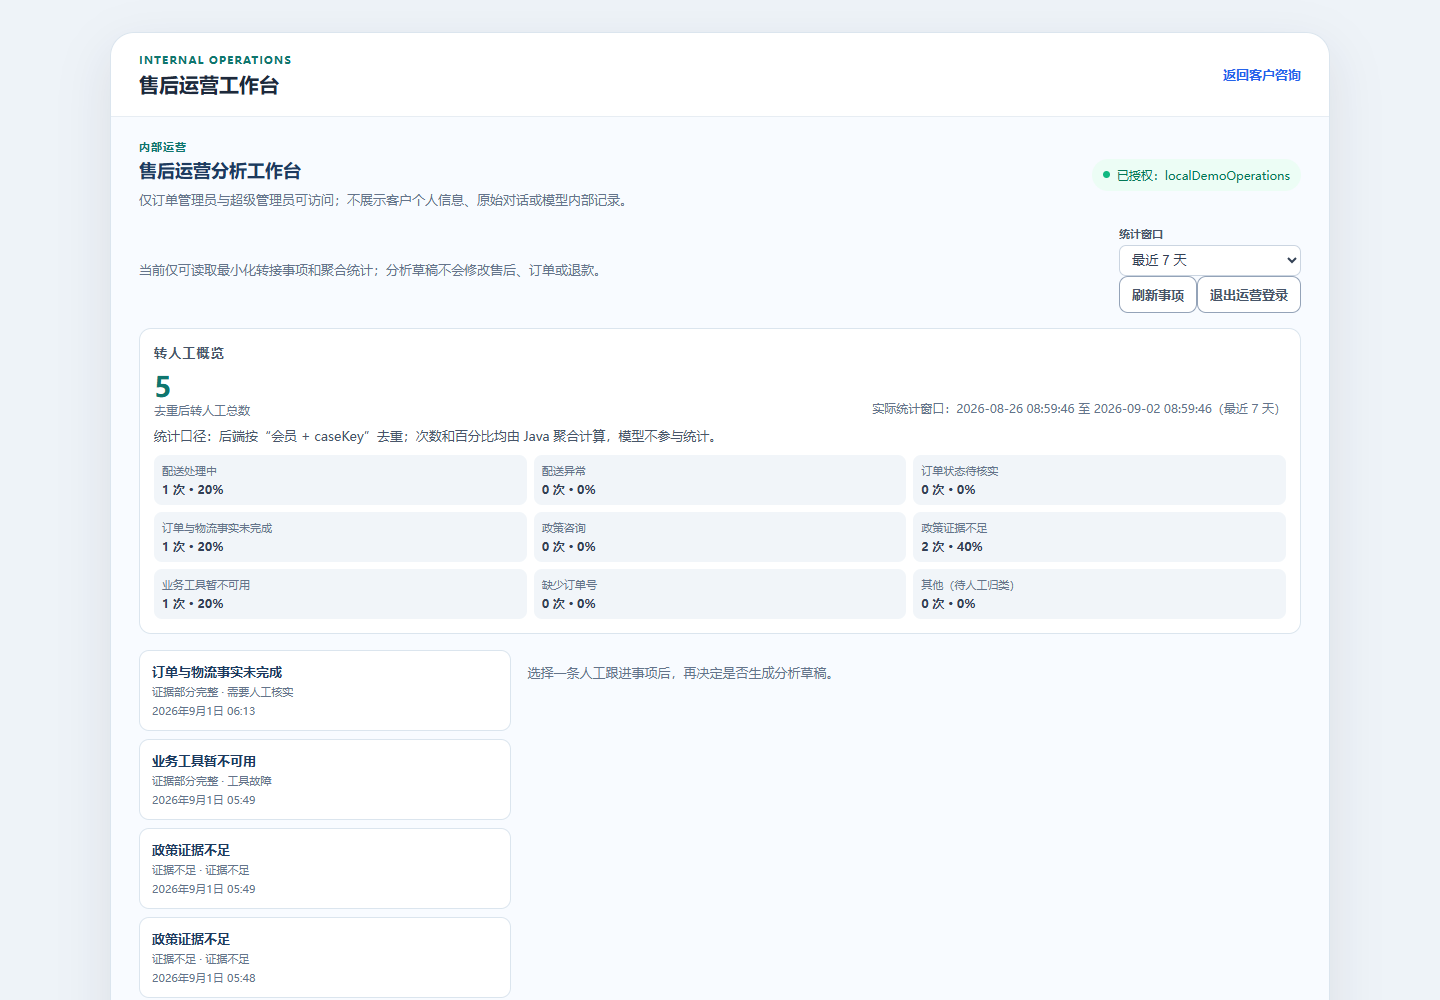
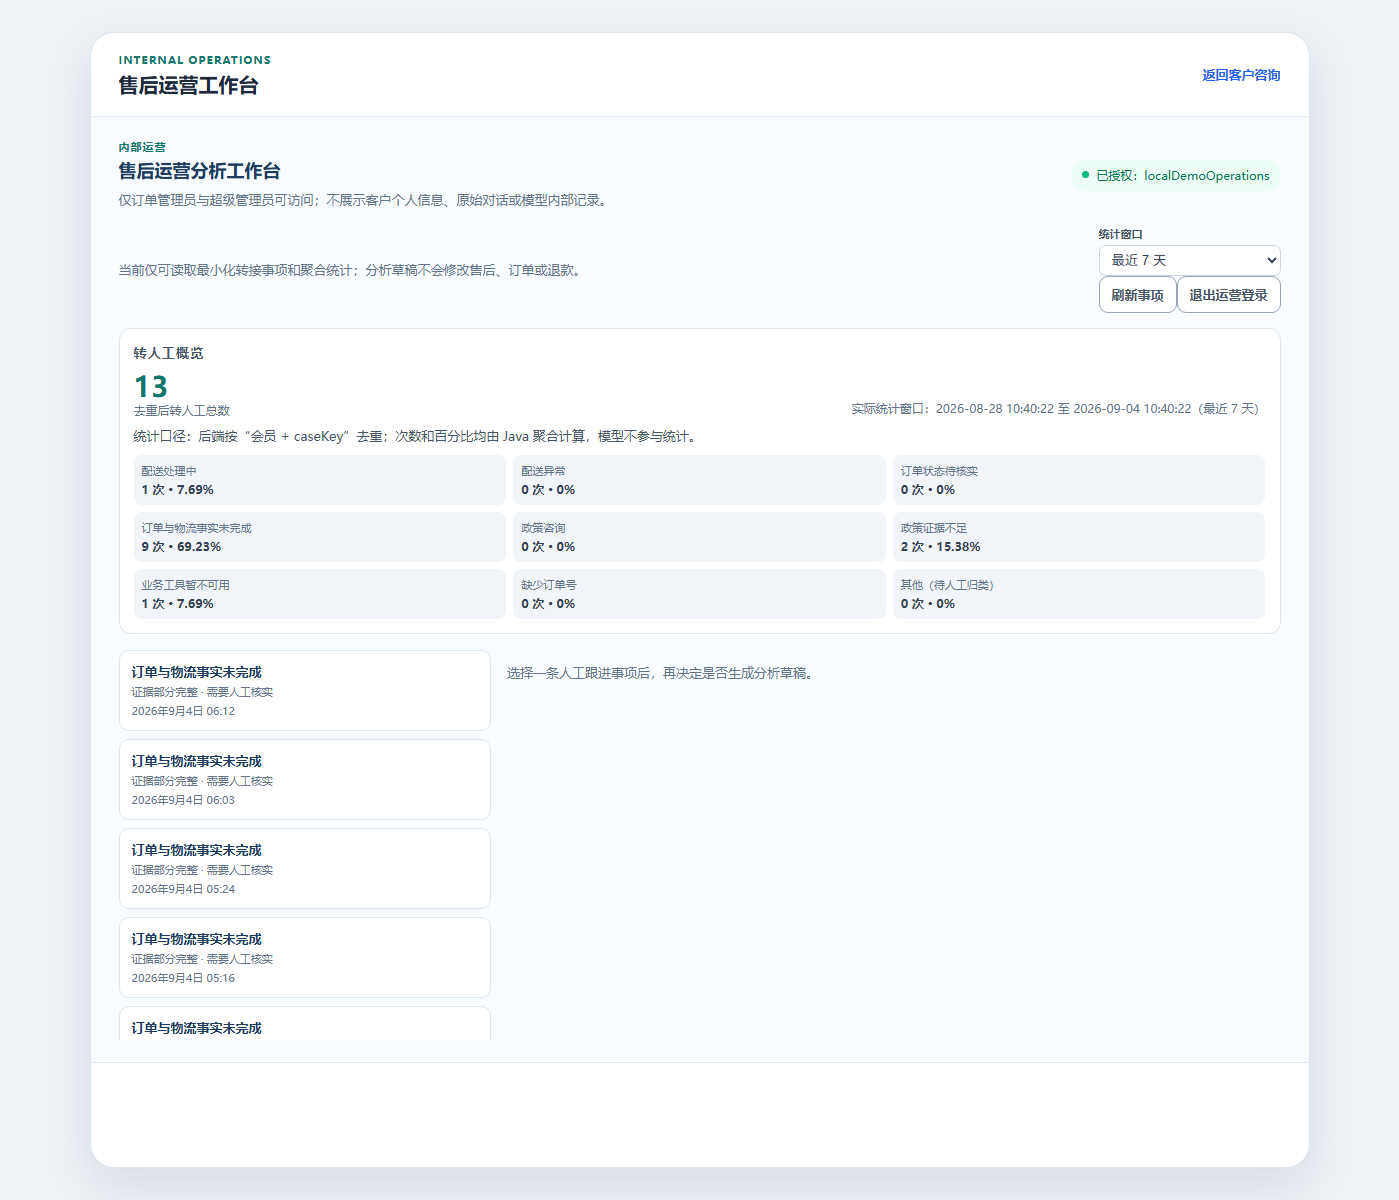
docs: refresh live demo screenshots and evaluation evidence

diff --git a/mall-ai-web/src/App.vue b/mall-ai-web/src/App.vue
@@ -1082,7 +1082,7 @@ async function scrollToLatest(): Promise<void> {
           <div class="composer-area">
             <div class="quick-prompts" aria-label="快捷问题"><button v-for="prompt in quickPrompts" :key="prompt" type="button" :disabled="isSending || isCreatingConversation" @click="sendMessage(prompt)">{{ prompt }}</button></div>
             <form class="composer" @submit.prevent="sendMessage()">
-              <textarea v-model="messageInput" :disabled="isSending || isCreatingConversation" rows="2" placeholder="例如：订单号 202607240001 的耳机损坏了，想申请退货" @keydown.enter.exact.prevent="sendMessage()"></textarea>
+              <textarea v-model="messageInput" :disabled="isSending || isCreatingConversation" rows="2" placeholder="例如：某笔订单的耳机损坏了，想申请退货" @keydown.enter.exact.prevent="sendMessage()"></textarea>
               <button class="send-button" type="submit" :disabled="isSending || isCreatingConversation || !messageInput.trim()">{{ isSending ? "处理中" : "发送" }}</button>
             </form>
             <p class="composer-note">Enter 发送；Shift + Enter 换行。涉及写操作时，系统会先要求明确确认。</p>

diff --git a/PROGRESS.md b/PROGRESS.md
@@ -1,0 +1,110 @@
+# 当前工作进度记录
+
+更新时间：2026-09-04（Asia/Shanghai）
+仓库：`C:\\Users\\12969\\Desktop\\mall`
+分支：`main`
+开始本轮时 HEAD：`8891d4c3fc5116aed794b76daca7e45e691795db`
+远程：`https://github.com/Eleven617/mall-ai-after-sales-platform.git`
+
+> 本文件是暂停点记录。它不保存密码、Token、API Key、订单号、客户原话、原始工具载荷或完整 Trace。
+
+## 1. 已完成的工作
+
+### 本轮已完成
+
+- 已阅读并核对当前 README、公开证据文档、前端页面和截图驱动脚本的现状。
+- 将客户页面输入框中的完整数字订单号示例改为泛化示例，避免公开页面继续提示业务标识。
+- 使用真实本地 Compose 页面、真实 Chrome headless/CDP 和本地合成账号尝试更新三张公开截图。
+- 发现截图驱动脚本的运营/质量登录选择器过窄，已在临时脚本中修正；同时加入缓存禁用、独立浏览器 profile 和更严格的真实凭据/长业务编号检查。
+- 重新执行 Vue 生产构建：成功。
+- 执行 `docker compose up -d --build mall-ai-web`：成功；未执行 `docker compose down`，未删除命名卷或清空数据库。依赖服务被 Compose 正常重建/重启后恢复健康。
+- 通过直接本地 API 冒烟确认：合成客户登录、创建会话和政策消息请求均返回 HTTP 200；响应包含安全回答字段（只记录字段长度，不记录回答内容）。
+
+### 之前已经存在、但本轮没有重新测量的证据
+
+以下数字来自此前提交/证据文档，仅作为基线，不能替代本轮最终复验：
+
+- v3 manifest：`478/478`；deterministic preflight：`478/478`；代表性 Runtime：`8/8`。
+- 质量 Agent contract_mock：`17/17`。
+- 任务编排 contract_mock：`11/11`；live_model_synthetic：`10/10`，blocked `0`。
+- v3 live synthetic：`36` 个 Case × `3` 次，共 `108/108`；此前不同记录中的 p95 数值不一致，需在恢复后以实际运行日志重新核对。
+- FastAPI：`346 passed`、`7` 个参数化子断言通过。
+- Chunk/Metadata：`8/8`；RAG grounding contract：`15/15`；RAG verifier：`36` 条通过；RAG 2.0 黄金集：`52` 条，Dense/Hybrid/Hybrid+Rerank 均通过，Dense 继续默认。
+- Java portal/admin、Vue、Compose 和 Docker health 均有此前通过记录；不同历史文档对 Java 分项数量也存在口径差异，恢复后应重新执行并统一记录。
+- 旧提交已有成功的 GitHub Actions 运行链接，但它们不是本轮新截图/新代码提交的验证结果，恢复后不得直接沿用为新提交证据。
+
+## 2. 修改过的文件
+
+### 已跟踪、当前有改动
+
+- `mall-ai-web/src/App.vue`：将输入框 placeholder 中的完整订单号示例改为泛化文本。
+- `docs/assets/customer-policy-conversation.png`：截图脚本曾写入过新文件，但当前内容仍需重新确认，不能直接作为公开最终截图。
+- `docs/assets/operations-handoff-overview.png`：由真实运营页面重新截图，使用合成账号/聚合数据。
+
+### 未跟踪但被 Git 忽略的临时文件
+
+- `tmp/capture_demo_screenshots.py`：仅用于本地截图驱动，已多次调整；位于被 `.gitignore` 忽略的 `tmp/`，不应提交。
+- `tmp/capture-chrome-profile*`：Chrome 临时 profile，不应提交。
+
+### 尚未修改
+
+- `docs/assets/quality-evaluation-dashboard.png` 本轮尚未成功刷新，仍是旧截图。
+- `README.md`、`docs/TEST_AND_DEMO_EVIDENCE.md`、`docs/PUBLIC_RELEASE_RECORD.md` 和其他公开证据文档尚未针对本轮截图更新完成。
+
+## 3. 已执行的命令和结果
+
+以下命令均未输出或保存密码、Token 或密钥：
+
+| 命令/动作 | 结果 |
+| --- | --- |
+| `npm run build`（`mall-ai-web`） | 成功：`vue-tsc --noEmit` 与 Vite build 均通过 |
+| `docker compose up -d --build mall-ai-web` | 成功；Web 及依赖服务重建/重启完成，未 down、未删卷 |
+| `docker compose ps` | 八个常驻服务显示 healthy |
+| 本地截图脚本（多次） | 部分失败：客户页异步历史/消息状态等待条件未稳定；运营页截图已生成；质量页未刷新 |
+| 本地 API 冒烟（合成客户） | 登录、创建会话、发送政策问题均 HTTP 200；只检查响应结构/长度 |
+| `view_image` 检查三张资产 | 已查看；发现客户图仍可能显示旧 placeholder 中的完整数字，不能发布；运营图为合成只读概览；质量图为旧的真实质量页截图 |
+| `git status --short --branch` | 当前分支 `main`；改动为 App.vue 与两张截图；临时脚本/profile 被忽略 |
+
+## 4. 当前遇到的问题
+
+1. 客户截图脚本中，服务端请求已返回 200，但前端在登录后的会话历史异步更新与新消息渲染之间存在竞态；脚本观察到客户页只有两行消息，未稳定捕获 assistant 回答，因此等待条件超时。
+2. 客户截图当前仍能看到旧的完整数字订单号 placeholder；在重新生成并用图像检查确认前，不能提交或在 README 宣称它是安全新截图。
+3. 质量截图尚未刷新；上一次质量图虽来自真实页面，但不是本轮截图更新，且页面中的合同字段名不能被误判为真实敏感值，需用更精确的安全检查重新截取。
+4. 公开证据文档中的历史提交 SHA、远程 Actions 链接、Java 分项数量和 live-synthetic p95 有不同历史口径；恢复后必须以一组新命令和新提交统一，不得编数字或把旧链接冒充新提交结果。
+5. 本轮尚未完成公开文档同步、最终全量回归、Git commit/push 和新提交对应的远程 Actions 验证。
+
+## 5. 尚未完成的任务
+
+- 稳定生成并检查三张真实截图：客户、运营、质量；确认无完整订单号、密码、Token、客户原话、RAG 原文或生产 Trace。
+- 重新运行与本轮改动相关的测试，至少包括 Vue build、`git diff --check`、FastAPI 受影响测试；交付前按仓库规则完成 FastAPI 全量回归，并复跑 Compose config。
+- 更新 `README.md`、`docs/TEST_AND_DEMO_EVIDENCE.md`、`docs/PUBLIC_RELEASE_RECORD.md`（必要时同步 v3 证据），写清日期、命令、数据集规模、hash、deterministic/contract_mock/live_model_synthetic/浏览器现场边界。
+- 检查暂存区，确保没有 `.env`、密码、Token、模型权重、Chroma 索引、浏览器 profile、日志或其他敏感文件。
+- 创建专门的截图/测试证据 commit，建议消息：`docs: refresh live demo screenshots and evaluation evidence`。
+- 推送到 `origin main`，等待该新提交对应的 `mall-ci` 与 `quality-evaluation` 完成；只有真实 success 才能在最终报告写新 Actions 链接和“该提交 CI 通过”。
+- 若远程失败，逐项读取新日志并如实记录根因、命令和阻塞点，不能沿用旧成功链接。
+
+## 6. 下一步应该做什么
+
+1. 先修复临时截图脚本的客户页竞态：等待登录初始化结束后再发送，或打开已生成且不含业务标识的合成政策会话；必要时用 CDP 检查 DOM 状态，但不要打印页面敏感内容。
+2. 重新截三张图并逐张 `view_image` 检查；客户图若仍有数字订单号，立即判为不合格并重截，不做图像伪造或遮盖替代。
+3. 运行测试和静态检查，保存真实输出。
+4. 只更新公开文档中的真实结果与边界，不把历史数量相加、不把 mock 说成真实模型效果。
+5. 检查 Git diff/status 后提交、推送，再等待并记录新 Actions。
+
+## 7. 不能重复执行或不能删除的内容
+
+- 不执行 `git reset --hard`、`git checkout --`、`docker compose down`、`docker compose down -v`、卷删除、数据库清空或迁移回滚；必须保留现有本机演示数据和命名卷。
+- 不删除既有测试、EvalCase、工作流 job、扫描门禁或历史证据来制造绿色结果；不使用 `continue-on-error`、`|| true`、跳过测试或放宽断言。
+- 不删除或覆盖与本任务无关的用户脏改动；只保留本轮明确改动。
+- 不提交 `.env`、密码、Token、私钥、真实手机号/地址/订单号、完整客户对话、生产 trace、RAG 原文、模型权重、Chroma 索引、日志和 Chrome profile。
+- 不把旧提交的 Actions success 当作新提交 success；不在远程验证完成前添加或宣称新的绿色 CI 证据。
+- 不重复运行会新增业务数据的现场自举脚本，除非先确认其幂等/影响范围并确有必要；截图优先使用只读页面或已存在的合成数据。
+- 不启动 Build 20 新 RAG/Hybrid/Rerank 主线，也不新增第四个 Agent或学习支线；当前暂停点只针对截图、证据、测试和 Git 收口。
+
+## 恢复执行后的新增记录（2026-09-04）
+
+- 已修正临时截图脚本的客户页等待条件，使用真实 Chrome headless/CDP 成功生成并检查三张 PNG：客户政策对话、运营转人工概览、AI 质量评测页面。
+- 三张图均未发现完整数字订单号、密码、Token 值、客户原话、RAG 原文或生产 Trace；质量页中出现的 `token`/`rag_context` 等仅是合同测试中的字段名说明，不是实际值。
+- 重新执行本机复验：FastAPI `346 passed`；质量 `17/17`；Chunk/Metadata `8/8`；v3 manifest `478/478`、preflight `478/478`、代表性 Runtime `8/8`；RAG2 三种模式各 `52/52`；Java portal `14/14`、admin `6/6`；Vue build、Compose config 均成功。
+- 已更新 `README.md`、`docs/TEST_AND_DEMO_EVIDENCE.md`、`docs/PUBLIC_RELEASE_RECORD.md`，明确本轮截图与本机结果；截至本记录时尚未为新变更创建 commit、推送或取得对应 Actions 结果。
+- 当前下一步只剩：暂存检查 → commit → push → 等待新提交对应的 `mall-ci`/`quality-evaluation` → 将真实链接和最终 SHA 补回证据文档。

diff --git a/docs/TEST_AND_DEMO_EVIDENCE.md b/docs/TEST_AND_DEMO_EVIDENCE.md
@@ -1,5 +1,31 @@
 # 测试与演示证据
 
+## 2026-09-04 — 公开演示截图刷新与本机复验（待推送变更）
+
+本节对应本轮准备提交的前端示例占位符和三张真实页面截图。截图由本机 Compose 页面、Chrome headless/CDP 和合成账号生成；未保存或输出密码、Token、完整订单号、客户原话、RAG 原文或生产 Trace。此时变更尚未推送，**不能使用历史 Actions 链接替代本次远程验证**。
+
+| 范围 | 实际命令/动作 | 结果 |
+| --- | --- | --- |
+| FastAPI 全量 | `mall-ai-service/.venv/Scripts/python.exe -m pytest -q` | **346 passed**、1 条第三方弃用警告、7 个参数化子断言通过 |
+| 质量合同 | `scripts/run_quality_agent_evaluation.py` | `quality-agent.v2` **17/17 passed** |
+| Chunk/Metadata | `scripts/evaluate_chunk_metadata.py --summary` | `rag-chunk-metadata.v1` **8/8 passed**，合成 chunk `5`，外部模型调用 `0` |
+| RAG 2.0 | `scripts/evaluate_rag2.py --summary` | Dense、Hybrid、Hybrid+Rerank 各 **52/52 passed**；外部模型调用 `0`；Dense 仍为默认，其他模式只保留实验 |
+| v3 清单 | `validate_v3_release_manifest.py --json` | `478` deterministic、`36` live case、`12` performance profile；清单和 fixture hash 校验通过 |
+| v3 预检 | `run_v3_release_preflight.py --json` | **478/478** deterministic、**8/8** representative runtime |
+| Java portal | 受影响协同/事件/安全合同定向 Maven 测试 | **14/14 passed**，无失败、无跳过 |
+| Java admin | 运营分析定向 Maven 测试 | **6/6 passed**，无失败、无跳过 |
+| Web | `mall-ai-web/npm run build` | `vue-tsc --noEmit` 与 Vite build 成功 |
+| Compose | `docker compose --env-file .env.example config --quiet` | 成功；常驻容器随后均为 healthy |
+| 浏览器现场截图 | 真实 Chrome headless/CDP，客户/运营/质量页面各一张 | 三张 PNG 已生成并人工检查公开字段；这不是完整浏览器 E2E 清单 |
+
+本轮新截图文件：
+
+- `docs/assets/customer-policy-conversation.png`
+- `docs/assets/operations-handoff-overview.png`
+- `docs/assets/quality-evaluation-dashboard.png`
+
+本节的本机结果不代表 GitHub Actions 已通过，也不代表生产部署、生产 SLA、真实用户准确率或真实外部履约系统接入。推送后必须等待新提交对应的 `mall-ci` 与 `quality-evaluation`，再补录远程链接。
+
 ## 2026-09-04 — Build 22 提交后最终复验（`f88fee38b2089a0cc433650480ebac6dc3dcba03`）
 
 这次只引用该提交对应的真实远程运行，不用旧提交的绿色结果替代：

diff --git a/README.md b/README.md
@@ -24,11 +24,11 @@ flowchart LR
   R --> X[AgentOps / Eval\n合成合同与回放]
 ```
 
-真实验证范围是本机、合成数据、自动化测试和显式的模型合成评测；截至当前 `main` 提交，`mall-ci` 与 `quality-evaluation` 均有真实成功的 GitHub Actions 运行记录。不宣称生产 SaaS、真实用户准确率、生产 SLA，也未接入真实支付、仓储、物流或维修系统。项目基于 `macrozheng/mall` 二次开发，上游归属和许可证见 [UPSTREAM.md](UPSTREAM.md)。
+真实验证范围是本机、合成数据、自动化测试和显式的模型合成评测；已推送基线的 `mall-ci` 与 `quality-evaluation` 有真实成功运行记录，任何新提交都必须重新查看 Actions，不能由历史链接外推。不宣称生产 SaaS、真实用户准确率、生产 SLA，也未接入真实支付、仓储、物流或维修系统。项目基于 `macrozheng/mall` 二次开发，上游归属和许可证见 [UPSTREAM.md](UPSTREAM.md)。
 
 ## 真实运行截图
 
-以下截图来自本地 Compose 演示，使用合成账号和合成数据；图片不代表线上部署或生产数据。
+以下截图于 2026-09-04 从本地 Compose 演示重新获取，使用合成账号和合成数据；图片不代表线上部署或生产数据。完整命令和边界见 [测试与演示证据](docs/TEST_AND_DEMO_EVIDENCE.md)。
 
 ![客户政策咨询与售后对话](docs/assets/customer-policy-conversation.png)
 客户侧政策咨询与安全回答，业务写入仍需后续确认。

diff --git a/docs/PUBLIC_RELEASE_RECORD.md b/docs/PUBLIC_RELEASE_RECORD.md
@@ -1,5 +1,19 @@
 # 公开发布记录
 
+## 2026-09-04 — 公开演示资产与本机复验更新（远程验证待完成）
+
+本轮更新了客户页面的泛化输入示例，并从真实本地 Compose 页面重新截取客户、运营和 AI 质量开发者页面。截图只使用合成账号与脱敏/聚合数据，不包含密码、Token、完整订单号、客户原话、RAG 原文或生产 Trace。
+
+本机实际复验结果（不能代替远程 CI）：
+
+- FastAPI 全量：`346 passed`，7 个参数化子断言通过；
+- `quality-agent.v2`：`17/17 passed`；`rag-chunk-metadata.v1`：`8/8 passed`；
+- v3 manifest/preflight：`478/478` deterministic，代表性 Runtime `8/8`；
+- RAG2 Dense、Hybrid、Hybrid+Rerank：各 `52/52 passed`，Dense 继续默认；
+- Java portal：`14/14`；Java admin：`6/6`；Vue 生产构建成功；Compose config 成功；八个常驻容器 healthy。
+
+本节对应的代码、截图和文档变更尚未取得新提交对应的 GitHub Actions 结果；推送后必须补录真实的 `mall-ci`、`quality-evaluation` URL，不能沿用旧提交链接。
+
 ## 2026-09-04 — Build 22 CI 与 live-synthetic 收口（提交 `f88fee38b2089a0cc433650480ebac6dc3dcba03`）
 
 本次代码提交已推送到 `main`，并取得了**该提交对应**的远程 GitHub Actions 结果：
